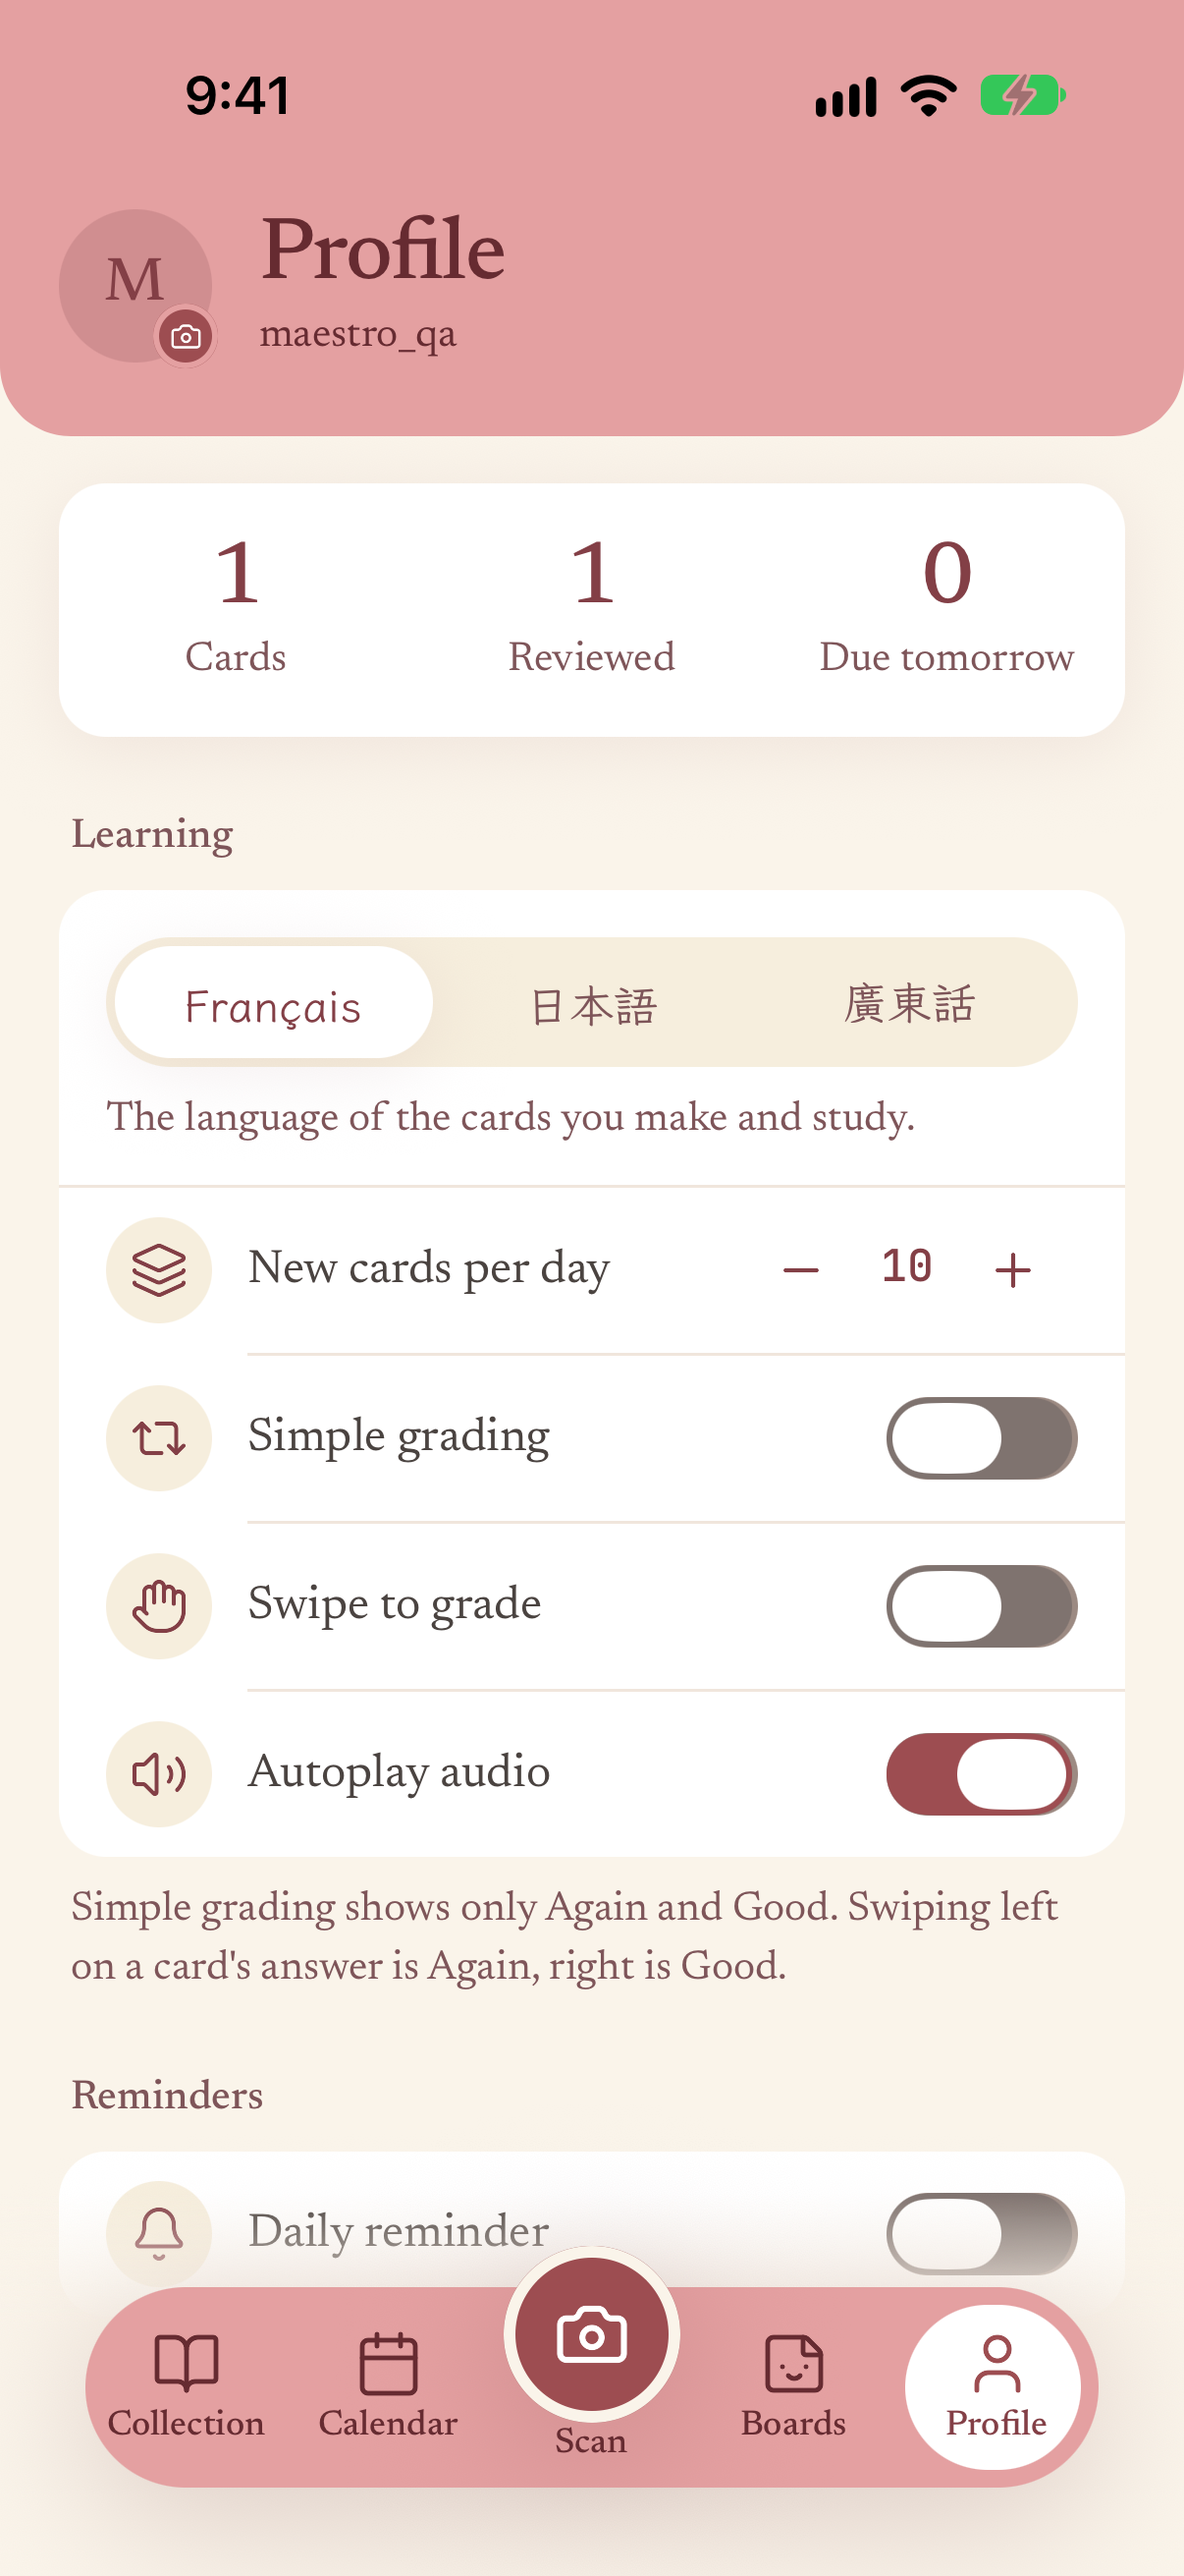
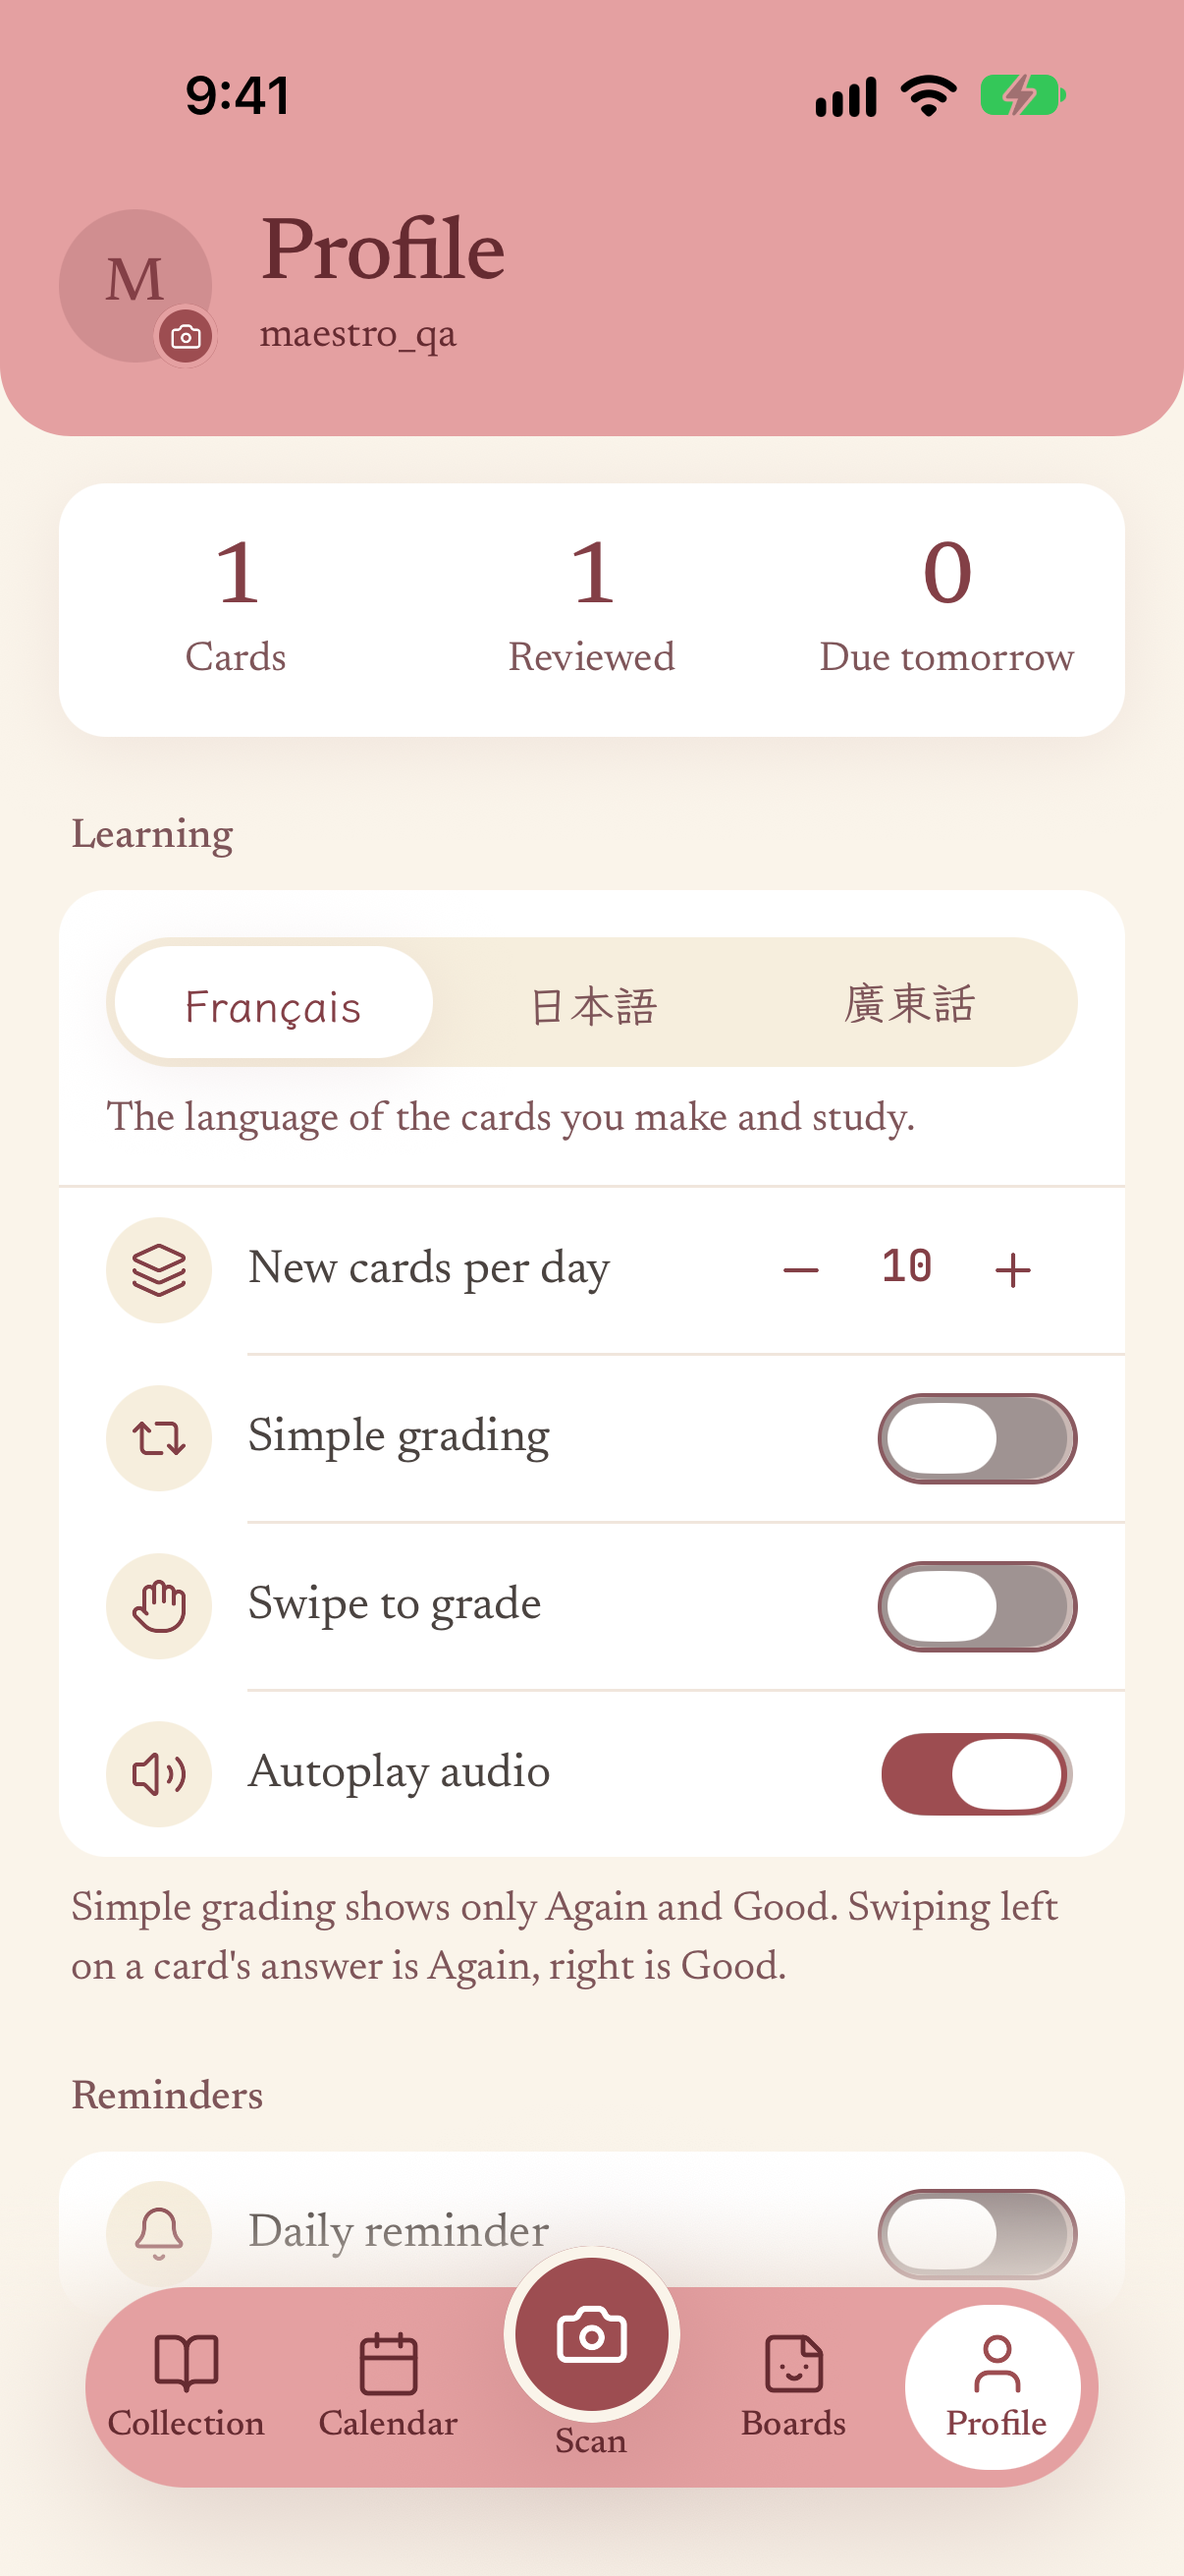
Polish: warmer off toggles with outline

diff --git a/app/(tabs)/profile.tsx b/app/(tabs)/profile.tsx
@@ -348,14 +348,14 @@ export default function ProfileScreen() {
   );
 
   const toggle = (value: boolean, onChange: (v: boolean) => void, label: string, testID?: string) => (
-    <View style={styles.switchBox}><Switch
+    <View style={styles.switchBox}><View style={[styles.switchRing, !value && styles.switchRingOff]}><Switch
       value={value}
       onValueChange={onChange}
       trackColor={{ false: colors.trackOff, true: colors.terra }}
       ios_backgroundColor={colors.trackOff}
       accessibilityLabel={label}
       testID={testID}
-    /></View>
+    /></View></View>
   );
 
   const iconProps = { size: 20, strokeWidth: 1.75, color: colors.inkDark } as const;
@@ -694,6 +694,9 @@ const styles = StyleSheet.create({
   segmentCaption: { ...type.small, marginTop: spacing.sm },
 
   switchBox: { height: MIN_TAP, justifyContent: 'center' },
+  // A 1.5px ring that is always there (so toggling never shifts layout) and only painted when OFF.
+  switchRing: { borderRadius: 17, borderWidth: 1.5, borderColor: 'transparent' },
+  switchRingOff: { borderColor: colors.trackOffRing },
   stepper: { flexDirection: 'row', alignItems: 'center' },
   stepBtn: { width: MIN_TAP, height: MIN_TAP, alignItems: 'center', justifyContent: 'center' },
   stepValue: { ...type.data, fontSize: 15, minWidth: 28, textAlign: 'center', color: colors.inkDark },

diff --git a/constants/theme.ts b/constants/theme.ts
@@ -76,7 +76,8 @@ export const colors = {
   // Utility
   border:     '#EADFD6', // decorative edges only (1.2:1); controls use ctl
   ctl:        '#957579', // input, chip, secondary-outline borders (3.76 on cream, 4.12 on white)
-  trackOff:   '#9C8A82', // switch off-track, warm taupe (3.3:1 on card, 3.0 on cream)
+  trackOff:   '#C9B8B4', // switch off-track fill: light and warm; the ring carries the contrast
+  trackOffRing: '#8A5A60', // 1.5px ring around an OFF switch (>= 3:1 on card and cream)
   divider:    '#F0E6DC', // row dividers inside cards
   scrim:      'rgba(51, 41, 42, 0.42)', // sheet and modal backdrop
   grabber:    '#E3D3C8',
